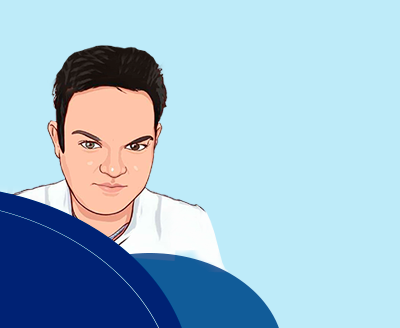
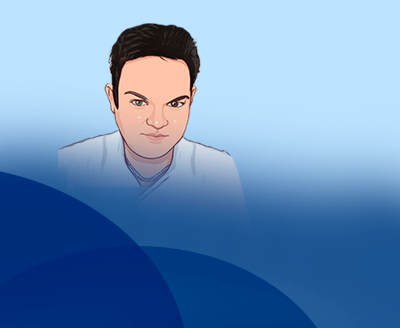
newss

diff --git a/src/pages/Home/styles.ts b/src/pages/Home/styles.ts
@@ -19,7 +19,7 @@ export const HomeBannerWrapper = styled.div<{icon:IconType}>`
 
     .title-search-container{
         position: absolute;
-        top:60%;
+        top:65%;
         left:50%;
         transform: translate(-50%, -50%);
         width:100%;
@@ -27,14 +27,24 @@ export const HomeBannerWrapper = styled.div<{icon:IconType}>`
         z-index:1;
         
         display: flex;
-        flex-direction: column;
+        flex-direction: column-reverse;
         align-items: center;
         justify-content: cener;
 
         .principal-title{
-            width: 45%;
-            heigh: 45%;    
-            margin-bottom:5px;
+            width:80%;
+              font-family: "Playwrite IN", serif;
+            font-size:14px;
+            text-align: center;
+            position: absolute;
+            bottom:-35%;
+            trasnform:translate(-50%,-50%)
+            left:0%;
+            color:#fff;
+             font-weight: <weight>;
+           
+          
+         
                
         }
 
@@ -121,9 +131,7 @@ export const HomeBannerWrapper = styled.div<{icon:IconType}>`
             justify-content: center;
 
           .principal-title{
-            width: 28%;
-            heigh: 28%;    
-            margin-bottom:20px;
+           
                
         }
         }

diff --git a/src/components/Header/styles.ts b/src/components/Header/styles.ts
@@ -4,7 +4,7 @@ import styled from "styled-components";
 
 export const HeaderContainer = styled.header`
     width:100%;
-    height:65px;
+    height:95px;
     background-color: ${({theme}) => theme.colors.background};
     display: flex;
     align-items: center;
@@ -23,7 +23,7 @@ export const HeaderContainer = styled.header`
 
 export const HeaderWrapper = styled.div`
     width:92%;
-    height: 65px;
+    height: 95px;
     position: relative;
     display: flex;
     align-items: center;
@@ -34,8 +34,8 @@ export const HeaderWrapper = styled.div`
         align-items: center;
     }
       .logo{
-        width:75px !important;
-        height:75px !important;
+        width:115px !important;
+        height:115px !important;
         margin-left:8px;
         object-fit:contain;
         

diff --git a/public/index.html b/public/index.html
@@ -2,6 +2,9 @@
 <html lang="pt-br">
   <head>
     <meta charset="utf-8" />
+    <link rel="preconnect" href="https://fonts.googleapis.com">
+<link rel="preconnect" href="https://fonts.gstatic.com" crossorigin>
+<link href="https://fonts.googleapis.com/css2?family=Chathura:wght@300;400;700&family=Dongle:wght@300;400&family=Goldman&family=IBM+Plex+Sans+Thai+Looped:wght@100;200;300;400;500&family=Montserrat+Subrayada:wght@400;700&family=Playwrite+IN:wght@100..400&family=Reem+Kufi:wght@400;500&display=swap" rel="stylesheet">
     <link rel="apple-touch-icon" sizes="180x180" href="/apple-touch-icon.png">
     <link rel="icon" type="image/png" sizes="32x32" href="/favicon-32x32.png">
     <link rel="icon" type="image/png" sizes="16x16" href="/favicon-16x16.png">

diff --git a/src/pages/Home/index.tsx b/src/pages/Home/index.tsx
@@ -91,7 +91,7 @@ const Home = () => {
 
             <HomeBannerWrapper id="search" icon={IoMdArrowForward }>
                 <div className="title-search-container">
-                <LazyLoadImage  effect="blur" src={logoHome} alt="principal-title"  className="principal-title"/>                    
+                <h1 className="principal-title">"Conectando pessoas aos seus sonhos"</h1>                    
                 <PseudoSearch/>
                 </div>
        
